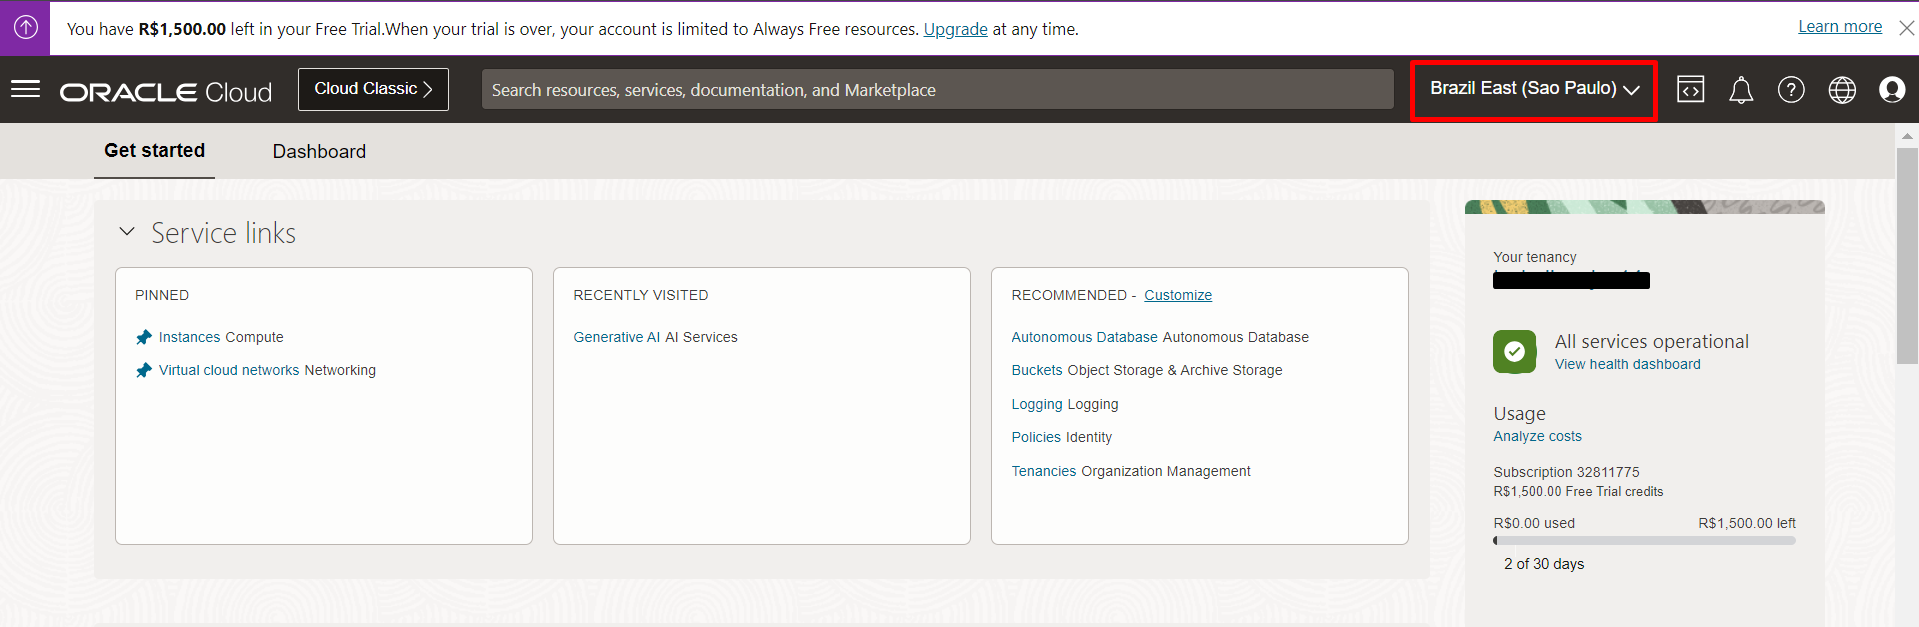
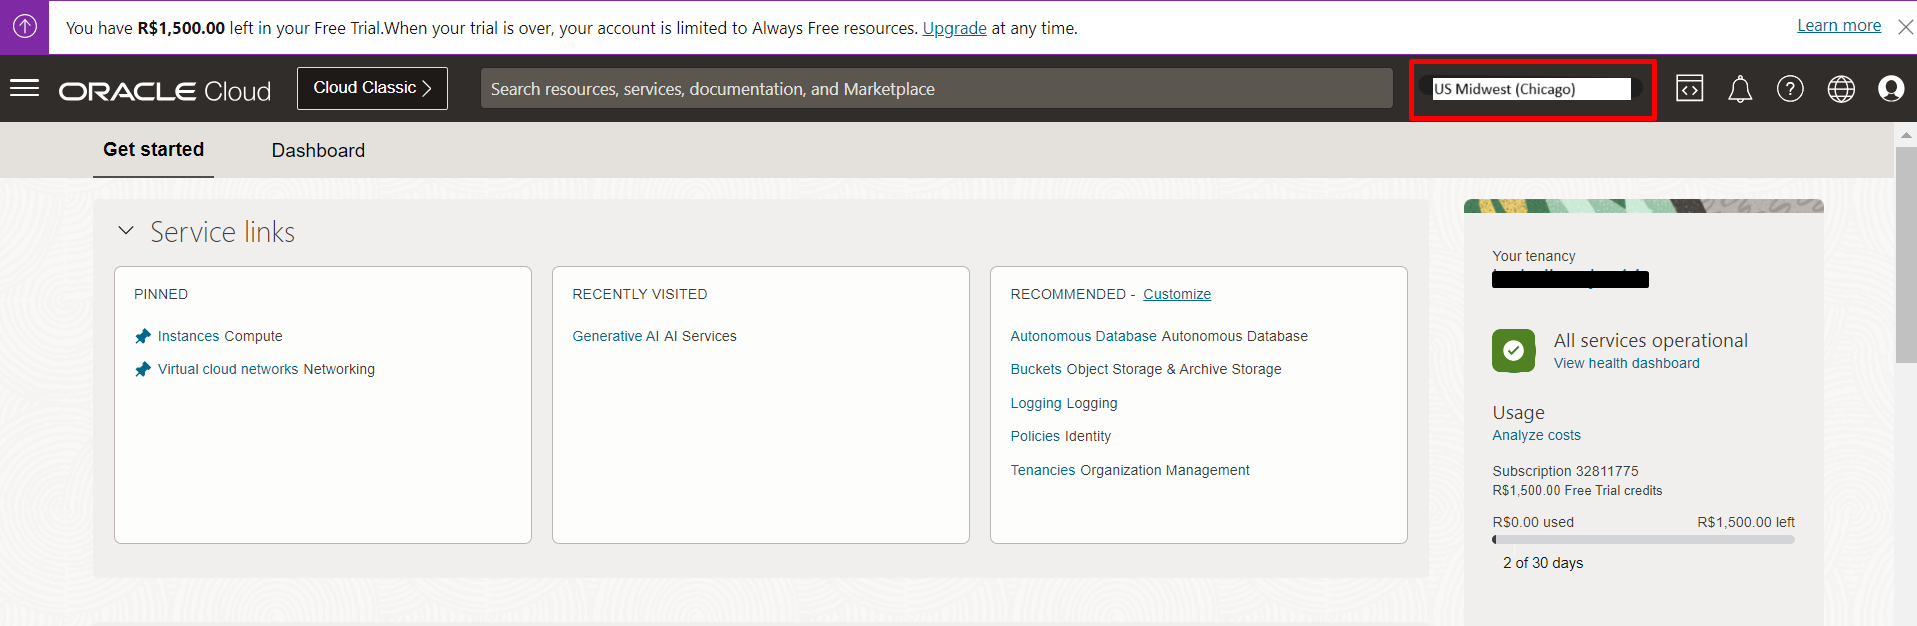
Ajuste Configuração Free Trial

diff --git a/0-pt-config-lab/0-pt-config-lab-credit-card.md b/0-pt-config-lab/0-pt-config-lab-credit-card.md
@@ -11,7 +11,7 @@ A [**Oracle Cloud**](https://www.oracle.com/br/cloud/) é uma plataforma de infr
 <br>
 ### ➡ **Como funciona a Oracle Cloud Free Tier?**
 
-O Oracle Cloud Free Tier é uma conta gratuita que oferece acesso a vários serviços da Oracle Cloud sem custo, com [**$500 USD**](https://www.oracle.com/cloud/free/) em créditos gratuitos válidos por **30 dias** e acesso a serviços gratuitos. Isso inclui, mas não se limita a, computação, armazenamento, bancos de dados e serviços de inteligência artificial.
+O Oracle Cloud Free Tier é uma conta gratuita que oferece acesso a vários serviços da Oracle Cloud sem custo, com [**$300 USD**](https://www.oracle.com/cloud/free/) em créditos gratuitos válidos por **30 dias** e acesso a serviços gratuitos. Isso inclui, mas não se limita a, computação, armazenamento, bancos de dados e serviços de inteligência artificial.
 
 O principal objetivo do Oracle Free Tier é **permitir que você experimente e desenvolva soluções na Oracle Cloud sem custo inicial.** É uma excelente oportunidade para testar a infraestrutura e serviços avançados da OCI e se familiarizar com os recursos disponíveis.
 
@@ -27,25 +27,29 @@ O principal objetivo do Oracle Free Tier é **permitir que você experimente e d
 
 ## 1⃣ Criação da Conta Oracle Free Tier
 
+### <span style="background-color:#FFFFE0;">**Passo 1.**</span>
+
 Visite o link [www.oracle.com/cloud/free](https://www.oracle.com/cloud/free/) e clique em **"Start for Free"**.
 
    ![Free Tier](images/free-tier.png " ")
 
+### <span style="background-color:#FFFFE0;">**Passo 2.**</span>
 
-> <span style="background-color:#FFCCCC; color:#D33E43;"><strong>❗ATENÇÃO❗</strong></span><br><br>
-> <font color=#D33E43> Utilize o e-mail cadastrado no evento para o processo de criação da conta Free Trial.</font> <br>
-
-Preencha com as informações do **País, Nome e Sobrenome, e Email**. Em seguida, clique em **Verify my Email**
+Preencha com as informações do **País, Nome e Sobrenome, e Email**. Em seguida, clique em **"Verify my Email"**
 
    ![Verify Email](images/verify-email.png " ")
 
-Ao clicar em Verify my Email, a seguinte mensagem irá aparecer em sua tela. Selecione **Select Offer**
 
-   ![Free Trial](images/FREE_TRIAL_TEST.png)
+> <span style="background-color:#FFCCCC; color:#D33E43;"><strong>❗ATENÇÃO❗</strong></span><br><br>
+> <font color=#D33E43> Se você já possui um e-mail cadastrado na Oracle, utilize um **email alternativo** para criar seu Free Trial. Caso veja a mensagem de erro mostrada na imagem, **atualize a página** e tente novamente.</font> <br>
+> ![Dif Email](images/dif-email.png " ")
+
 
 ## 2⃣ Ativação da Conta
 
-Você receberá um e-mail semelhante ao exemplo abaixo. **Caso não encontre, verifique se ele não está na pasta de spam**. Em seguida, clique em **"Verify Email"** para continuar:
+### <span style="background-color:#FFFFE0;">**Passo 3.**</span>
+
+Você receberá um e-mail semelhante ao exemplo abaixo. **Verifique se ele não está na pasta de spam**. Em seguida, clique em **"Verify Email"** para continuar:
 
 ![Verify Account Email](images/verify-account.png " ")
 
@@ -53,11 +57,15 @@ Você receberá um e-mail semelhante ao exemplo abaixo. **Caso não encontre, ve
 > <font color=#D33E43> Conclua os passos a seguir em **até 30 minutos** para evitar que o link enviado por e-mail seja reiniciado. **Evite clicar no link mais de uma vez**, pois isso poderá gerar uma mensagem de erro.</font> <br>
 > ![Forbidden](images/forbidden.png " ")
 
+### <span style="background-color:#FFFFE0;">**Passo 4.**</span>
+
 Em seguida, crie uma senha que atenda às seguintes regras:
    - A senha deve ter no mínimo **8 caracteres**, incluindo **1 letra minúscula**, **1 letra maiúscula**, **1 número** e **1 caractere especial**.
    - A senha não pode ter mais de **40 caracteres**, nem conter o **nome**, **sobrenome**, **endereço de e-mail**, **espaços** ou os caracteres: ``` ` ~ < > \ ```.
 
    ![Password](images/password.png " ")
+
+### <span style="background-color:#FFFFE0;">**Passo 5.**</span>
 
 Selecione as opções indicadas abaixo:
 
@@ -65,7 +73,15 @@ Selecione as opções indicadas abaixo:
      - Selecione a opção **Individual**.
 
 - **Home Region**:
-    - **Selecione a opção "US Midwest (Chicago)"** como a região de origem. 
+    - **Selecione a opção "Brazil East (Sao Paulo)"** como a região de origem. Os serviços de IA generativa da Oracle estão disponíveis apenas em algumas regiões específicas:
+  
+        | Region Name             | Location    | Region Identifier | Region Key |
+        |-------------------------|-------------|-------------------|------------|
+        | Brazil East (Sao Paulo) | Sao Paulo   | sa-saopaulo-1     | GRU        |
+        | Germany Central (Frankfurt) | Frankfurt | eu-frankfurt-1   | FRA        |
+        | UK South (London)       | London      | uk-london-1       | LHR        |
+        | US Midwest (Chicago)    | Chicago     | us-chicago-1      | ORD        |
+        {: title=" "}	
 
 - **Confirmação da Região**:
     - Marque a caixa de seleção para confirmar que entende que a **região de origem** não pode ser modificada após este passo.
@@ -75,17 +91,25 @@ Selecione as opções indicadas abaixo:
 
 ![Configuration Trial](images/config-trial.png " ")
 
+### <span style="background-color:#FFFFE0;">**Passo 6.**</span>
+
 Preencha as informações de endereço. Após preencher todos os campos, clique em **Continue** para prosseguir.
 
 ![Address Information](images/address-information.png " ")
 
+### <span style="background-color:#FFFFE0;">**Passo 7.**</span>
 
-1. Marque a caixa de **Agreement** para concordar com os termos.
-2. Clique em **Start my free trial** para iniciar seu período de teste gratuito.
+1. Clique em **Add payment verification method** para adicionar um método de pagamento.
+    > **Use preferencialmente um cartão físico** com limite de crédito disponível de, no mínimo, **6    reais**. Cartões digitais podem não ser aceitos.
 
-![Payment Information](images/agreement.png " ")
+3. Após adicionar o método de pagamento, marque a caixa de **Agreement** para concordar com os termos.
+4. Clique em **Start my free trial** para iniciar seu período de teste gratuito.
+
+![Payment Information](images/payment.png " ")
 
 ## 3⃣ Configuração da Autenticação de Dois Fatores
+
+### <span style="background-color:#FFFFE0;">**Passo 8.**</span>
 
 Após iniciar o Free Trial, aguarde enquanto a Oracle configura sua conta. A mensagem **"Please wait while we finish setting up your account"** aparecerá na tela. Esse processo pode levar alguns minutos.
 
@@ -101,6 +125,8 @@ Após iniciar o Free Trial, aguarde enquanto a Oracle configura sua conta. A men
 5. Clique em **Próximo** e siga as instruções para finalizar o login.
 
 ![Inicial Cloud](images/inicial-cloud.png " ")
+
+### <span style="background-color:#FFFFE0;">**Passo 9.**</span>
 
 Na tela seguinte, clique em **Enable Secure Verification** para iniciar a configuração da verificação em duas etapas.
 
@@ -124,6 +150,8 @@ Conclua o processo de configuração:
 
 ## 4⃣ Acesso à conta
 
+### <span style="background-color:#FFFFE0;">**Passo 10.**</span>
+
 Após realizar o processo de configuração de dois fatores você será direcionado para a tela de login. Insira seu **e-mail** e **senha** cadastrados, em seguida, clique em **Sign In** para prosseguir.
 
 ![Default Acess](images/default-acess.png " ")
@@ -133,8 +161,8 @@ Você receberá uma **notificação** no dispositivo configurado com o **Oracle 
 ![Cellphone Acess](images/cell-auth.png " ")
 
 Após o login, você será redirecionado para o painel da Oracle Cloud.
-  - Verifique se a **região selecionada** no canto superior direito é "US Midwest (Chicago)"
-  - No painel, você pode visualizar seus créditos restantes e acessar os links para os serviços.
+  - Verifique se a **região selecionada** no canto superior direito é "Brazil East (São Paulo)" para garantir acesso aos serviços de IA generativa.
+  - No painel, você pode visualizar seus créditos restantes e acessar os links para os serviços, como **OCI Generative AI Services**.
 
 ![OCI Panel](images/oci-panel.png " ")
 
